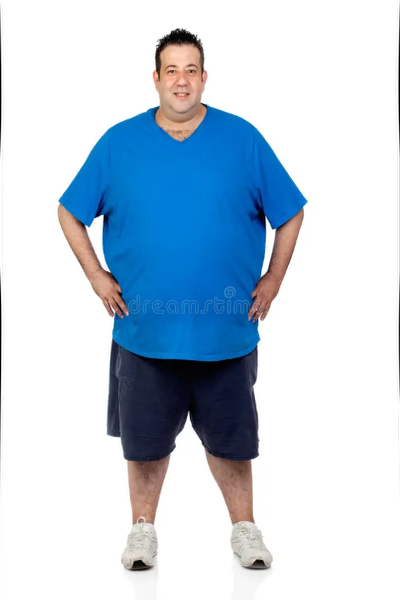
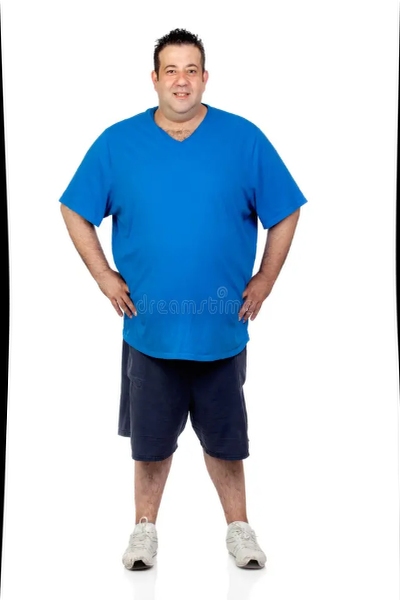
Warping hip is added to upperLeg class

diff --git a/thin-plate-spline/upperLeg.py b/thin-plate-spline/upperLeg.py
@@ -87,6 +87,7 @@ class upperLeg:
         self.hipRight_x = int(body_parts['rightHip']['x'])    # Left Hip's x coordinate
         self.hipRight_y = int(body_parts['rightHip']['y'])    # Left Hip's y coordinate
         
+        self.hip = Point(self.hipRight_x, self.hipRight_y, self.hipLeft_x, self.hipRight_y, self.epsilon_leg)
         
         self.setHipsMiddlePoints()
         self.setRightLegPoints()
@@ -285,6 +286,45 @@ class upperLeg:
 
         return self.im_
 
+    
+    def performWarpingHip(self, im):
+        
+        """ 
+            Performs TPS on hip leg
+        """
+        self.im_ = im
+        l1x, l1y, l1x_, l1y_ = self.hip.getSourcePoints()
+        d1x, d1y, d1x_, d1y_ = self.hip.getDestinationPoints()
+
+        source_points = np.array([
+        [0, 0], [self.width, 0], [0, self.height], [self.width, self.width], 
+        
+        #edited
+        [0, l1y], 
+        [self.width, l1y_], 
+        #---------------
+        
+        [l1x, l1y], [l1x_, l1y_],
+        ])
+        
+        destination_points = np.array([
+        [0, 0], [self.width, 0], [0, self.height], [self.width, self.width], 
+        
+        #edited
+        [0, l1y], 
+        [self.width, l1y_], 
+        [d1x, d1y], [d1x_, d1y_]
+        ])
+        
+        new_im = tps.warpPoints(self.im_, source_points, destination_points)
+        
+        self.im_ = new_im                
+        
+        self.hip.updateSourcePoints()
+        self.hip.updateDestinationPoints()
+
+        return self.im_
+    
     def showRightLegPoints(self):
         """
 
@@ -299,6 +339,14 @@ class upperLeg:
         
         return copy_im
         
+    def showHipPoints(self):
+        """
+            Displays all the source and destination points on hip leg.
+        """
+        copy_im = self.im_.copy()
+        self.hip.drawPoint(copy_im)
+        return copy_im
+    
     def showLeftLegPoints(self):
         """
         
@@ -312,7 +360,7 @@ class upperLeg:
         
         return copy_im
 
-    def showAllLegPoints(self):
+    def showAllPoints(self):
         """
             Returns:
                 Returns all leg points.
@@ -325,7 +373,8 @@ class upperLeg:
         self.l1.drawPoint(copy_im)
         self.l2.drawPoint(copy_im)
         self.l3.drawPoint(copy_im)
-        
+        self.hip.drawPoint(copy_im)
+
         return copy_im
     
     def setImage(self, im):
@@ -367,8 +416,13 @@ class upperLeg:
             d3 = r3_left_source_x - r3_right_source_x   
             
             #print(f'rightLeg d1 {d1} d2 {d2} d3 {d3}')
-
             return d1, d2, d3
+        
+        elif (part == 'hip'):
+            h1_right_source_x, _, h1_left_source_x, _  = self.hip.getSourcePoints()
+            d1 = h1_left_source_x - h1_right_source_x
+            return d1
+        
         else:
             return None
     
@@ -405,7 +459,18 @@ class upperLeg:
                 self.r2.updateDestinationPoints()
                 self.r3.updateDestinationPoints()
             
+            
             return True
+        
+        elif(part == 'hip'):
+            
+            d1 = self.getPixelDistance(part)
+            per_part_d1 = pointMath.custom_round((d1 * percentage) / 2)
+            self.hip.setEpsilonX(per_part_d1)
+            self.hip.updateDestinationPoints()
+            
+            return True
+        
         else: 
             return False
         

diff --git a/thin-plate-spline/Body.py b/thin-plate-spline/Body.py
@@ -70,6 +70,8 @@ class Body:
         self.rightArm = Arm(img, self.body_parts, 1)
         self.leftLeg = upperLeg(img, self.body_parts, 5)
         self.rightLeg = upperLeg(img, self.body_parts, 5)
+        self.hip = upperLeg(img, self.body_parts, 5)
+        
         self.setMaxCrop()
        #BodyMassIndex'i girecez 22.5 > overweight aylar alt alta yazılacak  her resmin altın ay ve body mass  badfa
         if(setByPercentage):
@@ -78,12 +80,14 @@ class Body:
             self.torso.setByPercentage('waist', percentage_torso)
             self.torso.setByPercentage('hip', percentage_torso)
             self.torso.setByPercentage('bust', percentage_torso)
-            
+            #---------------------------------------------------------------
             percentage_legs = 0.15
             self.leftLeg.setByPercentage('leftLeg', percentage_legs)
             self.rightLeg.setByPercentage('rightLeg', percentage_legs)
-
-            percentage_upperArms = 0.25
+            self.hip.setByPercentage('hip', percentage_legs)
+            
+            #---------------------------------------------------------------
+            percentage_upperArms = 0.12
             self.leftArm.setByPercentage('leftArm', percentage_upperArms)
             self.rightArm.setByPercentage('rightArm', percentage_upperArms)
             
@@ -170,8 +174,8 @@ class Body:
             cv2.imshow('Right Leg Warping Points',im)
             cv2.waitKey(0)
         
-        if(part_body == 'legs'):
-            im = self.leftLeg.showAllLegPoints()
+        if(part_body == 'upperLegs'):
+            im = self.leftLeg.showAllPoints()
             cv2.imshow('Leg Warping Points',im)
             cv2.waitKey(0)
         

diff --git a/thin-plate-spline/server.py b/thin-plate-spline/server.py
@@ -87,18 +87,13 @@ def body_weight_loss():
 
  
         # body.warp('leftArm')
-
+        # body.showWarpingPoints('upperLegs')
+        # body.warp('leftLeg')
+        # body.warp('rightLeg')
         # body.warp('leftArm')
-        # body.showWarpingPoints('rightArm')
-        
-        # body.showWarpingPoints('legs')
-
-        #body.warp('leftLeg')
-        #body.warp('rightLeg')
-        # body.warp('leftArm')
-        body.warp('rightArm')
-        body.warp('leftArm')
-
+        body.warp('rightLeg')
+        body.warp('leftLeg')
+        body.warp('hip')
         # body.warp('bust')
         # body.warp('belly')
         # body.warp('waist')
